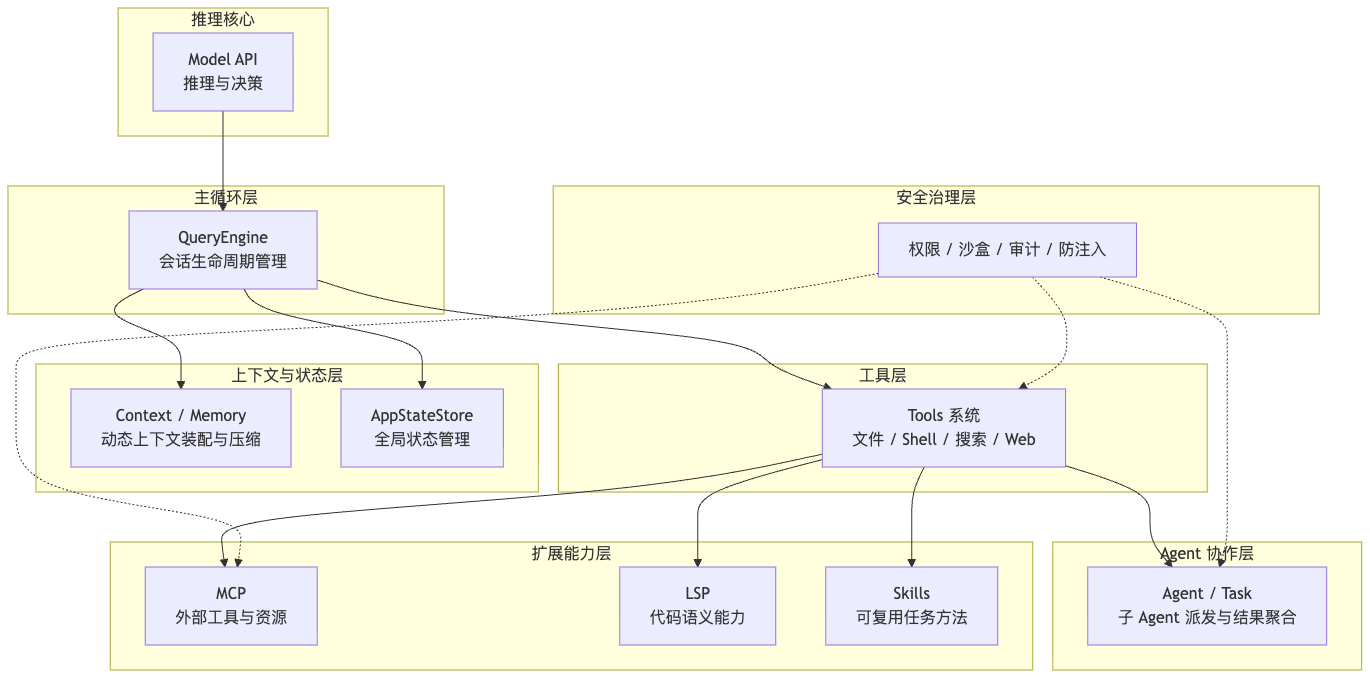
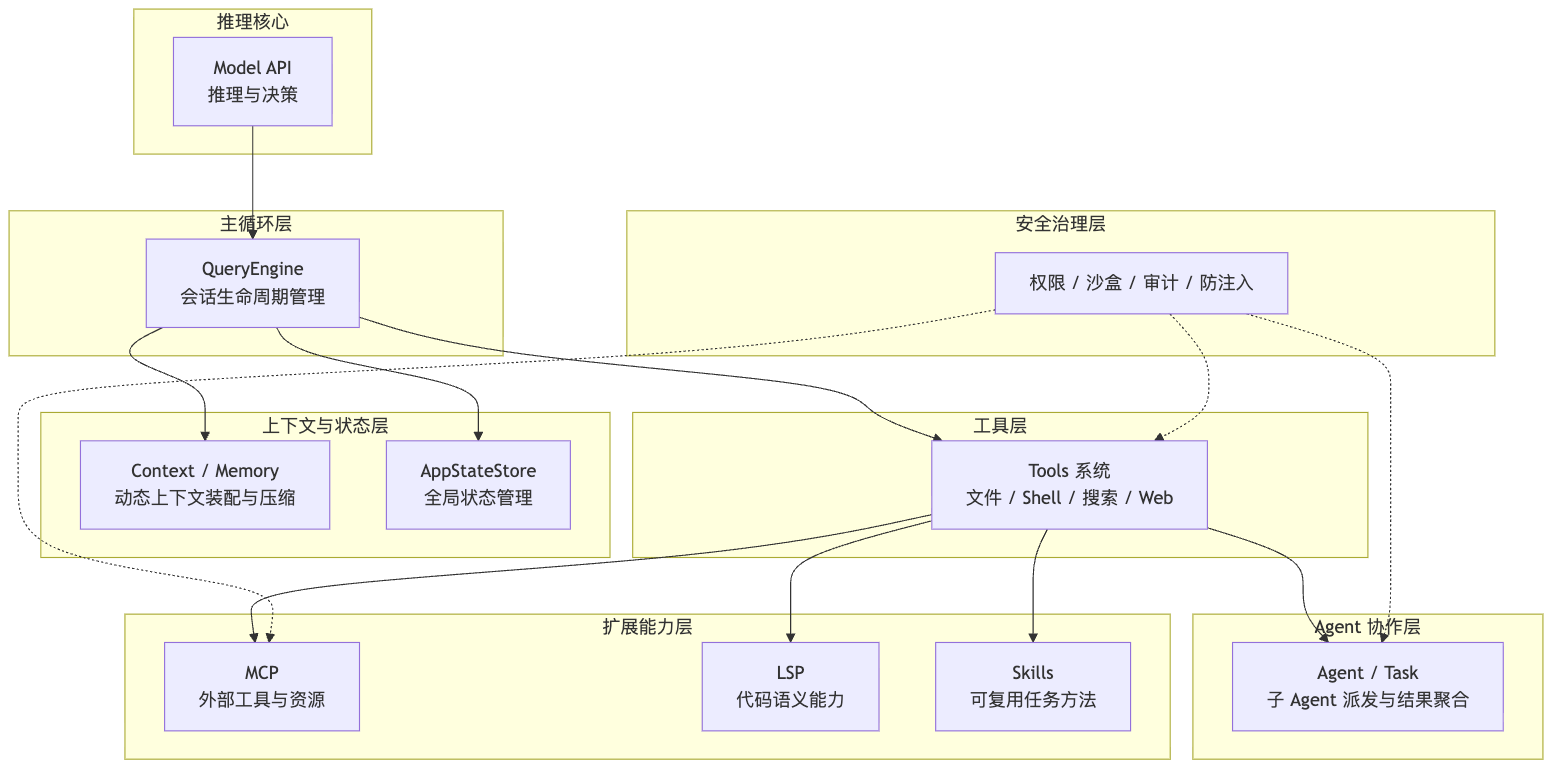
fix(blog): re-export claude code mermaid charts
Regenerate the Claude Code article series Mermaid diagrams from the Obsidian source with mermaid-cli so text renders reliably in PNG output.

Also disable inline media preview cropping for article images so tall diagrams render fully in the post body while keeping the image viewer available.

Changed region(s): [[0.0, 0.2478, 1.0, 0.9912], [0.3679, 0.2478, 0.981, 0.4956], [0.092, 0.0, 0.2453, 0.2168]]

diff --git a/src/scripts/blog-image-viewer.ts b/src/scripts/blog-image-viewer.ts
@@ -3,10 +3,6 @@ import type { PanzoomObject, PanzoomOptions } from '@panzoom/panzoom';
 
 type MediaMode = 'auto' | 'inline' | 'preview';
 
-const PREVIEW_RATIO_THRESHOLD = 1.2;
-const WIDE_RATIO_THRESHOLD = 2.4;
-const LARGE_HEIGHT_THRESHOLD = 820;
-const LARGE_WIDTH_THRESHOLD = 1400;
 const PANZOOM_EXCLUDE_CLASS = 'article-media-viewer-control';
 const PANZOOM_MAX_SCALE = 5;
 const PANZOOM_STEP = 0.4;
@@ -22,21 +18,6 @@ type ViewerState = {
 function parsePositiveNumber(value: string | null): number | null {
 	const parsed = Number.parseFloat(value ?? '');
 	return Number.isFinite(parsed) && parsed > 0 ? parsed : null;
-}
-
-function isPreviewCandidate(width: number, height: number): boolean {
-	const safeWidth = Math.max(width, 1);
-	const safeHeight = Math.max(height, 1);
-
-	if (safeHeight / safeWidth >= PREVIEW_RATIO_THRESHOLD) {
-		return true;
-	}
-
-	if (safeWidth / safeHeight >= WIDE_RATIO_THRESHOLD && safeWidth >= 960) {
-		return true;
-	}
-
-	return safeHeight >= LARGE_HEIGHT_THRESHOLD || safeWidth >= LARGE_WIDTH_THRESHOLD;
 }
 
 function getNaturalDimensions(media: Element): { width: number; height: number } | null {
@@ -96,23 +77,8 @@ function syncPreviewMode(root: HTMLElement): void {
 		return;
 	}
 
-	const media = root.querySelector('img, svg');
-	if (!media) {
-		root.dataset.mediaResolvedMode = 'inline';
-		root.classList.remove('is-preview');
-		return;
-	}
-
-	const dimensions = getNaturalDimensions(media);
-	if (!dimensions) {
-		root.dataset.mediaResolvedMode = 'inline';
-		root.classList.remove('is-preview');
-		return;
-	}
-
-	const preview = isPreviewCandidate(dimensions.width, dimensions.height);
-	root.dataset.mediaResolvedMode = preview ? 'preview' : 'inline';
-	root.classList.toggle('is-preview', preview);
+	root.dataset.mediaResolvedMode = 'inline';
+	root.classList.remove('is-preview');
 }
 
 function cloneMediaContent(root: HTMLElement): HTMLElement | null {

diff --git a/src/content/blog/zh/AI/3.ClaudeCode源码解析/06.MCP.md b/src/content/blog/zh/AI/3.ClaudeCode源码解析/06.MCP.md
@@ -69,7 +69,7 @@ MCP 要解决的正是这个问题。
 
 这一整条链，就是 Claude Code 的 MCP 实现。
 
-![06.MCP 图 1](./assets/06.MCP-mermaid-01.svg)
+![06.MCP 图 1](./assets/06.MCP-mermaid-01.png)
 
 这一章的核心结论可以先放在前面：
 
@@ -274,7 +274,7 @@ SDK server：豁免 CLI 侧策略，因为 CLI 不负责 spawn / network
 
 > 已经经过 scope 合并、项目审批、企业策略、去重和 policy 过滤的最终 MCP server 映射。
 
-![06.MCP 图 2](./assets/06.MCP-mermaid-02.svg)
+![06.MCP 图 2](./assets/06.MCP-mermaid-02.png)
 
 这一层解决的是：
 
@@ -385,7 +385,7 @@ env: { DATABASE_URL: "..." }
 
 所以 `connectToServer()` 会根据不同 `config.type` 选择不同 transport，再把这些差异收束成统一的 `MCPServerConnection`。
 
-![06.MCP 图 3](./assets/06.MCP-mermaid-03.svg)
+![06.MCP 图 3](./assets/06.MCP-mermaid-03.png)
 
 `connectToServer()` 的完整实现很长，文章里保留关键分支就够：
 
@@ -591,7 +591,7 @@ client.ts 根据 tools/list 返回值动态生成具体 Tool。
 
 这个适配器写法让所有 MCP 工具都能被工具系统识别为 `isMcp`，同时每个外部工具又保留自己的 schema、描述和 annotations。
 
-![06.MCP 图 4](./assets/06.MCP-mermaid-04.svg)
+![06.MCP 图 4](./assets/06.MCP-mermaid-04.png)
 
 `fetchToolsForClient()` 的重点不是每一行实现，而是这条翻译链：
 
@@ -676,7 +676,7 @@ Claude Code 会把可用 resources 放进资源索引，让用户能像引用文
 
 如果 server 支持 resources，Claude Code 还会自动提供列出和读取 MCP resources 的能力。某些资源甚至可以进一步派生成 MCP skills，进入更高层的可复用工作流。
 
-![06.MCP 图 5](./assets/06.MCP-mermaid-05.svg)
+![06.MCP 图 5](./assets/06.MCP-mermaid-05.png)
 
 所以 Claude Code 的 MCP 接入面其实有三层：
 
@@ -798,7 +798,7 @@ Claude Code 收到类似 `tools/list_changed` 的通知后，会做三件事：
 - 重连成功后重新发现 tools / commands / resources。
 - 重连失败则把状态写成 failed。
 
-![06.MCP 图 6](./assets/06.MCP-mermaid-06.svg)
+![06.MCP 图 6](./assets/06.MCP-mermaid-06.png)
 
 状态层的核心价值是：
 
@@ -938,7 +938,7 @@ runToolUse()
 
 这正好说明 MCP 为什么要包装成 `Tool`：只要进入这条管线，就天然拥有 schema 校验、hook、权限、progress、错误回填和 UI 展示。
 
-![06.MCP 图 7](./assets/06.MCP-mermaid-07.svg)
+![06.MCP 图 7](./assets/06.MCP-mermaid-07.png)
 
 这一层说明：
 
@@ -1168,7 +1168,7 @@ MCP Tools 更像外部器官接口：
 
 它们最终都进入统一工具协议，但来源和治理重点不同。
 
-![06.MCP 图 8](./assets/06.MCP-mermaid-08.svg)
+![06.MCP 图 8](./assets/06.MCP-mermaid-08.png)
 
 所以 MCP 的意义不是替代内置工具，而是把 Claude Code 从“只能操作本地工程环境”扩展成“可以治理地连接外部工程世界”。
 
@@ -1218,7 +1218,7 @@ prompts/get
 
 完整链路可以记成下面这张图。
 
-![06.MCP 图 9](./assets/06.MCP-mermaid-09.svg)
+![06.MCP 图 9](./assets/06.MCP-mermaid-09.png)
 
 如果只记一条文字链，就是：
 

diff --git a/src/content/blog/zh/AI/3.ClaudeCode源码解析/03.核心机制-Prompt编写.md b/src/content/blog/zh/AI/3.ClaudeCode源码解析/03.核心机制-Prompt编写.md
@@ -48,7 +48,7 @@ aliases:
 
 先看这张图建立整体感觉：
 
-![03.核心机制-Prompt编写 图 1](./assets/03.核心机制-Prompt编写-mermaid-01.svg)
+![03.核心机制-Prompt编写 图 1](./assets/03.核心机制-Prompt编写-mermaid-01.png)
 
 这张图想说的是：看起来是一根 prompt，实际切成了稳定段、动态段、记忆段、当前用户消息和历史消息。Prompt Runtime 真正管的也不是"文案怎么写"，而是**谁覆盖谁、谁先进入上下文、谁可以缓存、谁必须每轮刷新**。
 
@@ -186,7 +186,7 @@ const systemPrompt = asSystemPrompt([
 
 画成更接近执行逻辑的图：
 
-![03.核心机制-Prompt编写 图 2](./assets/03.核心机制-Prompt编写-mermaid-02.svg)
+![03.核心机制-Prompt编写 图 2](./assets/03.核心机制-Prompt编写-mermaid-02.png)
 
 这条链说明了一件事：
 
@@ -271,7 +271,7 @@ PR 描述怎么写？
 4. Local memory    CLAUDE.local.md
 ```
 
-![03.核心机制-Prompt编写 图 3](./assets/03.核心机制-Prompt编写-mermaid-03.svg)
+![03.核心机制-Prompt编写 图 3](./assets/03.核心机制-Prompt编写-mermaid-03.png)
 
 这几个层级含义不同。
 
@@ -424,7 +424,7 @@ Git 状态
 
 缓存边界可以这样画：
 
-![03.核心机制-Prompt编写 图 4](./assets/03.核心机制-Prompt编写-mermaid-04.svg)
+![03.核心机制-Prompt编写 图 4](./assets/03.核心机制-Prompt编写-mermaid-04.png)
 
 源码里提过 `SYSTEM_PROMPT_DYNAMIC_BOUNDARY` 这个设计，用白话讲：
 
@@ -550,7 +550,7 @@ Claude Code 的上下文优先级大致这样：
 
 现在可以把 Claude Code 的 prompt 组装简化成一条链：
 
-![03.核心机制-Prompt编写 图 5](./assets/03.核心机制-Prompt编写-mermaid-05.svg)
+![03.核心机制-Prompt编写 图 5](./assets/03.核心机制-Prompt编写-mermaid-05.png)
 
 这张图里有三个关键点。
 

diff --git a/src/content/blog/zh/AI/3.ClaudeCode源码解析/05.1文件工具-文件管理.md b/src/content/blog/zh/AI/3.ClaudeCode源码解析/05.1文件工具-文件管理.md
@@ -83,7 +83,7 @@ Glob / Grep 先缩小范围
 -> Bash 运行测试验证结果
 ```
 
-![05.1文件工具-文件管理 图 1](./assets/05.1文件工具-文件管理-mermaid-01.svg)
+![05.1文件工具-文件管理 图 1](./assets/05.1文件工具-文件管理-mermaid-01.png)
 
 这就是文件工具在 Agent 系统里的位置：它不是"文件 API"，而是一套围绕文件读写建立的安全工作流。
 
@@ -220,7 +220,7 @@ packages/builtin-tools/src/tools/NotebookEditTool/NotebookEditTool.ts
 
 但从 Agent 行为角度看，它们的职责分工很清楚：
 
-![05.1文件工具-文件管理 图 2](./assets/05.1文件工具-文件管理-mermaid-02.svg)
+![05.1文件工具-文件管理 图 2](./assets/05.1文件工具-文件管理-mermaid-02.png)
 
 可以把它们理解成三种不同的"文件动作语义"：
 
@@ -803,7 +803,7 @@ Edit / Write       -> checkWritePermissionForTool
 
 所以文件工具的权限不是一个总开关，而是按动作语义拆开的：
 
-![05.1文件工具-文件管理 图 3](./assets/05.1文件工具-文件管理-mermaid-03.svg)
+![05.1文件工具-文件管理 图 3](./assets/05.1文件工具-文件管理-mermaid-03.png)
 
 这也是为什么要有专用文件工具。如果都塞进 Bash，权限系统很难知道"这段命令到底读了什么、写了什么"。
 
@@ -878,7 +878,7 @@ npm test -- auth
 
 如果测试失败，新的错误输出又会回到 ReAct 循环（LLM Agent 的一种推理与行动交替执行模式）里，模型继续搜索、读取、修改、验证。
 
-![05.1文件工具-文件管理 图 4](./assets/05.1文件工具-文件管理-mermaid-04.svg)
+![05.1文件工具-文件管理 图 4](./assets/05.1文件工具-文件管理-mermaid-04.png)
 
 这条链路里的重点不是"工具多"，而是每一步都给下一步留下了可验证的状态。
 

diff --git a/src/content/blog/zh/AI/3.ClaudeCode源码解析/07.Skill.md b/src/content/blog/zh/AI/3.ClaudeCode源码解析/07.Skill.md
@@ -162,7 +162,7 @@ Available skills:
 
 先看一张总图。
 
-![07.Skill 图 1](./assets/07.Skill-mermaid-01.svg)
+![07.Skill 图 1](./assets/07.Skill-mermaid-01.png)
 
 这张图里最容易误解的是最后两条路。
 
@@ -596,7 +596,7 @@ Skill 解决的是：
 
 把这些能力组织起来的，就是 Skill。
 
-![07.Skill 图 2](./assets/07.Skill-mermaid-02.svg)
+![07.Skill 图 2](./assets/07.Skill-mermaid-02.png)
 
 所以不要把 Skill 理解成 MCP 的替代品。更好的理解是：
 
@@ -719,7 +719,7 @@ Claude Code 在这个基础上继续补齐了生产级能力：
 
 把前面的内容收束一下，一个 Skill 的生命周期可以分成六步：
 
-![07.Skill 图 3](./assets/07.Skill-mermaid-03.svg)
+![07.Skill 图 3](./assets/07.Skill-mermaid-03.png)
 
 这条链路解释了几个常见现象。
 
@@ -807,7 +807,7 @@ allowed-tools: Bash(*)
 
 现在可以把 Claude Code 的扩展层重新放回一张图里：
 
-![07.Skill 图 4](./assets/07.Skill-mermaid-04.svg)
+![07.Skill 图 4](./assets/07.Skill-mermaid-04.png)
 
 这张图里，Skill 不是和 Tools、MCP 抢位置，而是补了另一块：
 

diff --git a/src/content/blog/zh/AI/3.ClaudeCode源码解析/02.核心机制-ReAct.md b/src/content/blog/zh/AI/3.ClaudeCode源码解析/02.核心机制-ReAct.md
@@ -44,7 +44,7 @@ aliases:
 
 画成流程，就是：
 
-![02.核心机制-ReAct 图 1](./assets/02.核心机制-ReAct-mermaid-01.svg)
+![02.核心机制-ReAct 图 1](./assets/02.核心机制-ReAct-mermaid-01.png)
 
 Claude Code 的 `query.ts` 做的，就是把这个闭环工程化。模型先基于上下文做判断，再决定动不动手；行动结果被写回上下文后，模型继续下一轮判断。
 
@@ -167,7 +167,7 @@ Claude Code 负责决定能不能干、怎么干、干完怎么记录。
 
 ## 三、query.ts 的状态机：核心不是函数，而是 State
 
-![02.核心机制-ReAct 图 2](./assets/02.核心机制-ReAct-mermaid-02.svg)
+![02.核心机制-ReAct 图 2](./assets/02.核心机制-ReAct-mermaid-02.png)
 
 参考图左边列出了 `query.ts` 里的 `State` 结构。它提醒你一件事：
 
@@ -640,7 +640,7 @@ Compact 是长任务里的容量治理。
 
 可以把整张图压缩成下面这个流程：
 
-![02.核心机制-ReAct 图 3](./assets/02.核心机制-ReAct-mermaid-03.svg)
+![02.核心机制-ReAct 图 3](./assets/02.核心机制-ReAct-mermaid-03.png)
 
 这张图里最值得记住的是两个闭环。
 

diff --git a/src/content/blog/zh/AI/3.ClaudeCode源码解析/08.1Agent协作.md b/src/content/blog/zh/AI/3.ClaudeCode源码解析/08.1Agent协作.md
@@ -257,7 +257,7 @@ run_in_background: false
 
 运行时大概是这样：
 
-![08.1Agent协作 图 1](./assets/08.1Agent协作-mermaid-01.svg)
+![08.1Agent协作 图 1](./assets/08.1Agent协作-mermaid-01.png)
 
 注意"压缩摘要"很关键。
 
@@ -407,7 +407,7 @@ Agent 协作主要和第二种强相关。
 
 这带来一条完整链路：
 
-![08.1Agent协作 图 2](./assets/08.1Agent协作-mermaid-02.svg)
+![08.1Agent协作 图 2](./assets/08.1Agent协作-mermaid-02.png)
 
 这个设计很重要。
 
@@ -683,7 +683,7 @@ rm -rf migrations/
 
 Claude Code 的 Agent 协作不是另起炉灶，而是复用工具管线：
 
-![08.1Agent协作 图 3](./assets/08.1Agent协作-mermaid-03.svg)
+![08.1Agent协作 图 3](./assets/08.1Agent协作-mermaid-03.png)
 
 这张图里有一个重要的观察：
 

diff --git a/src/content/blog/zh/AI/3.ClaudeCode源码解析/05.2终端工具-命令执行.md b/src/content/blog/zh/AI/3.ClaudeCode源码解析/05.2终端工具-命令执行.md
@@ -58,7 +58,7 @@ Glob / Grep 定位 auth 相关文件
 
 所以终端工具不是"万能入口"，而是 Agent 和真实机器之间最危险、也最有价值的一座桥。
 
-![05.2终端工具-命令执行 图 1](./assets/05.2终端工具-命令执行-mermaid-01.svg)
+![05.2终端工具-命令执行 图 1](./assets/05.2终端工具-命令执行-mermaid-01.png)
 
 ## 一、为什么不能让模型随便跑 shell
 
@@ -348,7 +348,7 @@ sandbox：这条命令执行以后，最多还能碰到什么？
 
 完整链路大概是：
 
-![05.2终端工具-命令执行 图 2](./assets/05.2终端工具-命令执行-mermaid-02.svg)
+![05.2终端工具-命令执行 图 2](./assets/05.2终端工具-命令执行-mermaid-02.png)
 
 这就是为什么终端工具和 sandbox 章节关系很近：`BashTool` 是动作入口，sandbox 是动作落地时的边界。
 

diff --git a/src/content/blog/zh/AI/3.ClaudeCode源码解析/08.2业界的Agent协作（选修）.md b/src/content/blog/zh/AI/3.ClaudeCode源码解析/08.2业界的Agent协作（选修）.md
@@ -138,7 +138,7 @@ more agents = more coordination problems
 
 用序列图表示：
 
-![08.2业界的Agent协作（选修） 图 1](./assets/08.2业界的Agent协作（选修）-mermaid-01.svg)
+![08.2业界的Agent协作（选修） 图 1](./assets/08.2业界的Agent协作（选修）-mermaid-01.png)
 
 放到登录 bug 里：
 
@@ -681,7 +681,7 @@ Observability
 
 放到登录 bug 的流程里：
 
-![08.2业界的Agent协作（选修） 图 2](./assets/08.2业界的Agent协作（选修）-mermaid-02.svg)
+![08.2业界的Agent协作（选修） 图 2](./assets/08.2业界的Agent协作（选修）-mermaid-02.png)
 
 这张图的重点不是 Agent 数量，而是**边界**：
 

diff --git a/src/content/blog/zh/AI/3.ClaudeCode源码解析/05.3工作流工具-任务管理.md b/src/content/blog/zh/AI/3.ClaudeCode源码解析/05.3工作流工具-任务管理.md
@@ -358,7 +358,7 @@ tester：负责跑测试和复现
 
 一张简图看全貌：
 
-![05.3工作流工具-任务管理 图 1](./assets/05.3工作流工具-任务管理-mermaid-01.svg)
+![05.3工作流工具-任务管理 图 1](./assets/05.3工作流工具-任务管理-mermaid-01.png)
 
 任务清单和运行时任务之间不是替代关系，是协作关系。
 